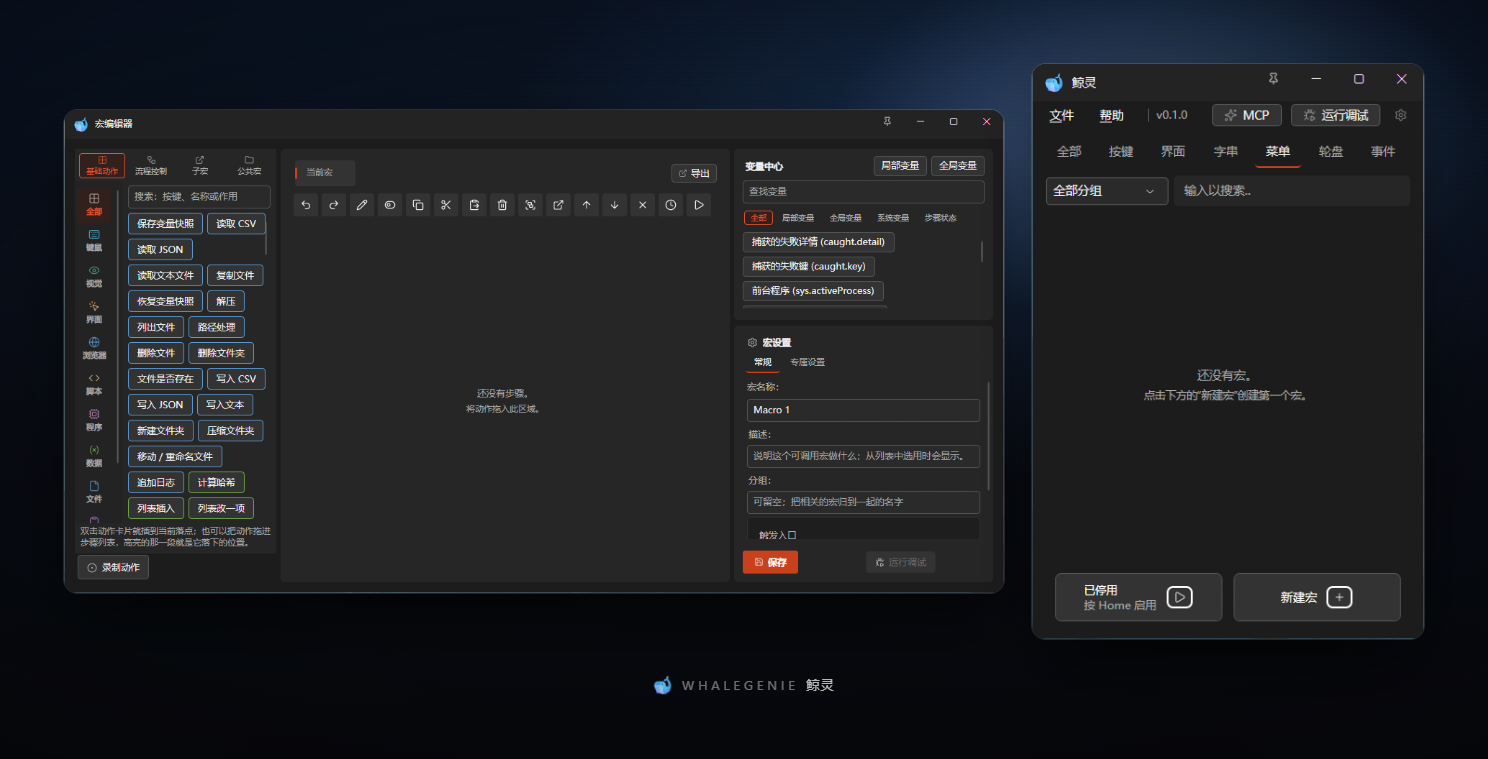
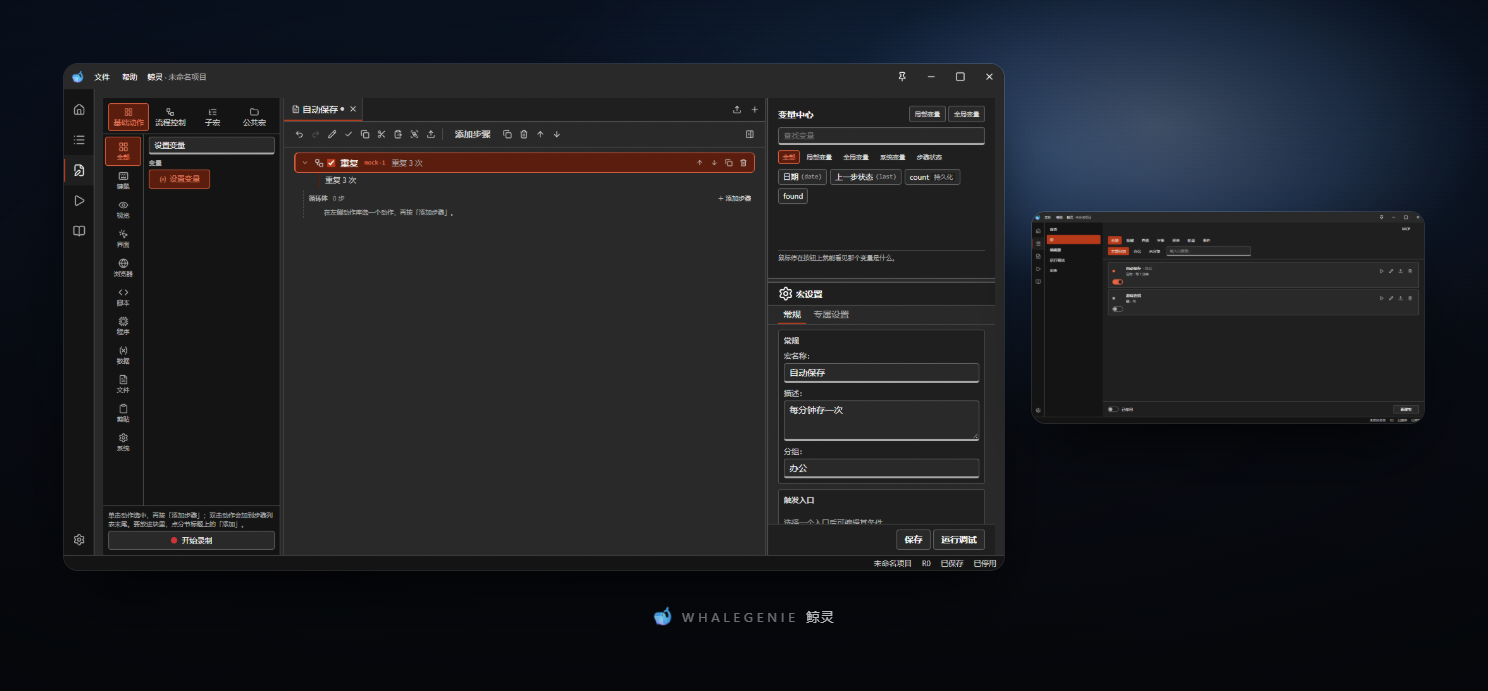
C3：编辑器文档与截图随迁移收口
同步网页编辑器的视觉契约、接口章节、手动验收项与路线图描述，更新界面总览、宏编辑器、动作编辑器与取值窗口截图；规模台账登记拆分后的文件行数。

diff --git a/docs/manual/10-editing.md b/docs/manual/10-editing.md
@@ -4,56 +4,125 @@
 
 ## 打开编辑器
 
-在「宏」页新建宏、双击宏卡片或点编辑按钮，会切到网页编辑器；原生菜单里的「编辑」也打开同一页面。公共宏库在左侧「宏库」页管理，不再从编辑器里的原生管理窗口进入。
+在「宏」页新建宏、双击宏卡片或点编辑按钮，会切到网页编辑器；标题栏「文件」菜单里的「编辑」和
+原生菜单的编辑入口也打开同一页面。公共宏库在左侧「宏库」页管理；编辑器动作库的「公共宏」页会把
+选中的公共宏复制成当前文档的子宏并留下一个调用步骤。
 
 ## 页面结构
 
-编辑器沿用 VS Code 式外壳：左侧活动栏与页面列表，右侧是文档区。顶部页签列出当前打开的父宏与子宏文档，灰点表示未保存；页签旁可关闭文档，关闭有未保存修改的文档会先询问。打开多个文档时切换页签保留各自的 C# 会话、撤销历史和脏状态。
+编辑器是类 VS Code 的工作区：顶部是标题栏；左侧活动栏常驻，编辑器路由的侧栏换成 **动作库**；
+中间是文档页签、工具条与步骤列表；右侧是 **变量中心与宏设置**；底部是状态条。
 
-标题栏的「文件」菜单负责打开、保存、另存为、导入与全部关闭；「帮助」菜单放关于、版本和使用手册。
+文档页签列出当前打开的父宏与子宏。切页签会保留各自的 C# 会话、撤销历史与未保存状态；页签上的
+实心点表示未保存，警示图标表示宏还有保存前必须修正的问题。页签可关闭，关闭有未保存修改的文档会
+先问「保存后再关闭」：确认保存成功才关闭，保存失败会保留页签并说明原因。末尾的「+」新建一个空白宏，
+右端的导出按钮把当前文档写成一个独立包。
+
+右侧栏上下两块同时在：上方是**变量中心**，列出当前宏能读到的变量，可按局部、全局、系统、
+步骤状态过滤，也可以打开局部/全局变量对话框；下方是**宏设置**，再分「常规」（名称、描述、分组、
+触发入口）与「专属设置」（输入限制、启停键、形参与返回值），保存与运行调试在它的底部。
+
+工具条在文档页签下方：撤销、重做、编辑步骤、添加步骤、复制、删除、上移、下移，以及右侧栏的
+收起/展开按钮。双击步骤行、点工具条的铅笔或按 F2 打开**动作编辑器**，步骤参数、条件、行表和
+备注/超时/重试/失败处理都在那里；窗口较窄时右侧栏默认收起，工具条上的按钮可随时展开。
+
+## 动作库
+
+动作库在工作区第一列，按来源分四档：
+
+- **基础动作**：左边一列分类栏（全部、键鼠、视觉、界面、浏览器、脚本、程序、数据、文件、剪贴、系统），
+  右边是这一分类的动作卡片；卡片按小分组加标题。
+- **流程控制**：重复、条件、多分支、尝试、跳转、等待等控制步骤，同样按小分组排列。
+- **子宏**：当前宏自己的子宏；单击打开为独立文档页签。
+
+搜索框按动作名、动作键、分类和说明过滤；搜索时不看当前来源，基础动作与流程控制合在一起找。
+**单击动作卡片只是选中**；**双击卡片**、按工具条的「添加步骤」，或把卡片拖到步骤列表接缝，
+先打开动作编辑器；确认后才把步骤加入列表。取消不改动列表。
+每个步骤列表上方还有「添加」按钮，把当前选中的动作放进那个分节；多分支的「添加分支」会加一支新的
+分支。动作库底部是「录制动作」：开始后捕获键鼠与手柄输入，再按一次停止并把结果写成步骤。
 
 ## 步骤
 
-「步骤」区上方有动作搜索、动作选择和「添加步骤」：
+一步一行。行首的折叠钮只出现在块上；勾选框启用或停用该步骤（停用的行变淡并写「已停用」）；名称旁
+的徽标分别是步骤 id、输入去向（前台/后台/驱动）和问题标记。行尾有上移、下移、复制、删除，选中行时
+出现；选中后行下方展开完整摘要、备注与步骤设置摘要。单击选中，Ctrl/Shift 多选；右键菜单可以
+编辑、启停、复制/剪切/粘贴、分组、提取为新宏、上下移与删除，行也可以拖到另一行前后换位。快捷键
+与菜单一致：Ctrl+C/X/V/G/E、Del、F2、Ctrl+↑/↓、Ctrl+A 与 Esc。
 
-- 搜索按动作名、动作键与分类过滤；选中一项后「添加步骤」放在根列表末尾。
-- 选中接受子步骤的块时，可出现「添加到选中步骤内」，把新步骤放进块内。
-- 每一步行首的勾选框启用/停用该步骤；行尾可上移、下移、复制、删除。
-- 选中步骤后，右侧检查器显示动作参数。文本、数字、多行和条件字段旁有「插入取值」：下拉可快速插入变量，**构建取值**会打开可搜索变量与内置函数的对话框，拼好后写回字段。
-- 键位字段可点「设置组合键」后直接按键捕获；图片字段可点「浏览」调用系统文件选择器；颜色字段可调用原生取色器。
-- 记录类字段（如返回值行表）可加行并逐格编辑；块步骤的「添加步骤」和「添加到选中步骤内」共同维护嵌套树。
-- 步骤检查器还可改备注、超时、重试次数、重试间隔和失败处理（停止、继续、下一轮循环、询问）。
+块（重复、条件、多分支、尝试等）显示为一层卡片，下面的分节是它的步骤列表，缩进并带虚线。分节标题
+右侧的「添加步骤」把动作库当前选中的动作放进该分节；多分支的「分支」分节用「添加分支」加一支，
+「其他情况」是普通步骤列表。
 
-## 条件
+步骤有问题时，列表上方会出现问题摘要；鼠标停在警示图标上可看具体原因。
 
-条件参数按行编辑：左侧值、比较方式、右侧值，行尾删除；行下方可加行或加组。组有自己的一组行和「全部成立 / 任一成立 / 全部不成立」连接方式，组可以嵌套；删除组会连同其子行一起移除。嵌套条件下仍可直接输入变量名和表达式，保存时由 C# 模型写成引擎读取的条件树。
+## 步骤参数
 
-## 宏设置与触发
+动作编辑器先编辑一个未入树的草稿步骤：标题栏显示“添加动作”或“编辑动作”，下方按基础设置、
+执行与容错、高级设置、其它设置分页；确认按钮是「添加步骤/保存步骤」，取消不改列表。
 
-名称、分组、说明直接写在文档区顶部。宏设置区可改输入限制（跟随程序设置或指定每秒事件数）和启用/停用键。
+双击步骤行打开动作编辑器后显示：
 
-触发入口列表支持按键、定时、颜色、文件、程序、字串、空闲、窗口和窗口内接口；每种入口有自己的字段，可启用/停用或删除。菜单入口仍是项目级运行菜单管理的原生面，不在网页编辑器里添加。
+- 参数：文本、数字、多行文字、选项、布尔、颜色、图片和键位字段。文本、名字、颜色、多行与条件
+  单元格、条件格与行表单元格显示成框内的只读文字，框的右缘贴着一枚「取值」按钮；数字可以直接输入，
+  按钮同样在框内。
+  点「取值」打开取值窗口：上方是结构带，下面是运算符、变量和函数。点材料会插到光标处，点块上的叉
+  可以摘除，点运算符可以更换，函数参数可以继续套函数；确认后把整条值写回这一格。
+- 条件：按行编辑左侧值、比较方式、右侧值；可加行、加组，组有自己的连接方式（全部成立/任一成立/
+  全部不成立），组可以嵌套。条件也可以直接写成表达式。
+- 行表：例如返回值表，按列加行、逐格编辑、删行。
+- 记录形参：在「宏设置 → 专属设置」里声明记录字段，字段名和类型会出现在调用方的行表里。
+- 步骤设置：备注、超时、重试次数、重试间隔与失败处理（停止、继续、下一轮循环、询问）。
 
-## 形参与返回值
+键位字段点「设置组合键」后直接按要用的键；图片字段点「浏览」调用系统文件选择器；颜色字段可用取色器
+或直接写颜色值。
 
-宏可声明调用时需要的形参和可返回的结果：名字、类型、必填、默认值与说明；选择记录类型时还可声明字段名和字段类型。形参与返回值都可用上移/下移调整顺序。声明不合法时保存会被 C# 校验拦下。
+## 变量中心
 
-## 变量
+右侧「变量中心」用五档过滤：全部、局部变量、全局变量、系统变量、步骤状态。变量片显示方便读的名字，
+括号里是实际名字；持久化的全局变量另有徽标。鼠标停在变量片上，下方显示它的来源与说明。
 
-局部变量墙列出当前宏声明的局部变量与步骤写出的局部变量；声明项可改名、改类型、改初始值和说明。全局变量墙显示整个工程的全局变量：新增、改名、改类型/默认值/说明/持久化只写当前文档的草稿，点「保存」才提交进工程；关闭文档会丢弃未保存的全局改动。
+顶部的「局部变量」和「全局变量」打开两个对话框：
 
-## 子宏
+- **局部变量**：声明这个宏自己每次运行开始时用的值；步骤写出来的名字也能在这里改名。改动随文档保存
+  一起提交。
+- **全局变量**：项目里所有宏共享的变量，可新建、改名、改类型/默认值/说明与持久化。改动先写进当前
+  文档的草稿，保存文档后提交进工程。
 
-父宏拥有的子宏显示在「子宏」区；点名字会打开独立文档页签。子宏页保存时写回父宏模型，父宏再保存时一起落进工程。子宏没有自己的触发入口。
+## 宏设置
 
-## 公共宏库
+「常规」页编辑宏名称、说明与分组。名称不能为空，也不能与项目里别的宏重名；有问题时字段下方直接说明。
+触发入口列表支持按键、定时、颜色、文件、程序、字串、空闲、窗口和窗口内接口；选中一条入口后编辑它的
+字段，可启用/停用或删除。多分支、条件等动作不使用触发入口。
 
-左侧「宏库」页列出本机公共宏的名字、版本与说明。可以选择一个工程宏加入宏库，或用当前工程宏覆盖已有条目；覆盖会按内容变化递增版本。删除只影响宏库，已复制进工程的副本照常运行。
+「专属设置」页编辑：
+
+- **输入限制**：跟随程序的默认速率，或给这个宏指定每秒事件数；
+- **启停键**：设置一个只属于这个宏的键；留空表示不设置；
+- **形参与返回值**：名字、类型、必填、默认值与说明；记录类型还可以声明字段。声明不合法时保存会被
+  C# 校验拦下，并在页面上说明原因。
+
+子宏文档没有自己的触发入口和输入限制，这两块不会显示。
 
 ## 保存、关闭与快捷键
 
-「保存」和 Ctrl+S 保存当前文档；有未保存内容时页签带点，关闭会先询问。Ctrl+W 关闭当前文档；非输入框聚焦时 Ctrl+Z / Ctrl+Shift+Z / Ctrl+Y 撤销与重做。关闭编辑器页签不会删除宏，宏列表里的删除仍走它的确认流程。
+- 「保存」或 Ctrl+S 保存当前文档；保存按钮在右侧宏设置的底部，文档有未保存修改且能保存时可用。
+- Ctrl+W 关闭当前页签；有未保存修改时先问保存。
+- 非输入框聚焦时，Ctrl+Z / Ctrl+Shift+Z / Ctrl+Y 撤销与重做。
+- 「运行调试」在右侧宏设置底部，会先保存当前文档，再进入运行与调试页；子宏与空宏不能直接运行。
+- 关闭编辑器页签不会删除宏；宏列表里的删除仍走它自己的确认流程。
 
 ## 桌面交互
 
-编辑、步骤树、条件、变量、公共宏库都已迁入网页。屏幕取色、图片选择、窗口拾取和运行调试中的部分桌面交互仍由原生窗口承担；它们只做单次桌面操作，不保存第二套编辑模型。
+编辑器的步骤树、条件、变量、宏设置、触发入口与动作库都已迁入网页。屏幕取色、图片选择、窗口拾取
+和运行调试里的部分桌面交互仍由原生窗口承担；它们只做单次桌面操作，不保存第二套编辑模型。
+
+## 子宏
+
+父宏拥有的子宏显示在动作库的「子宏」页；单击打开独立文档页签。子宏页保存时写回父宏模型，父宏再
+保存时一起落进工程。子宏没有自己的触发入口与输入限制。
+
+## 公共宏库
+
+左侧「宏库」页列出本机公共宏的名字、版本与说明。可以选择一个工程宏加入宏库，或用当前工程宏覆盖
+已有条目；覆盖会按内容变化递增版本。删除只影响宏库，已复制进工程的副本照常运行。编辑器里不提供
+导入/导出当前文档的按钮；这些操作在「宏」页和「文件」菜单里完成。

diff --git a/docs/dev/validation.md b/docs/dev/validation.md
@@ -128,16 +128,22 @@ src/WhaleGenie/bin/x64/Debug/net10.0-windows10.0.19041/WhaleGenie.exe
 - **驱动级输入**：安装 usbip-win2，分别验证启动时加载与否、键鼠动作和手柄；退出后确认虚拟设备已移除。
 - **识别与录制**：验证 YOLO 检测、等待与点击落点；验证录制热键、动作翻译和停止流程。
 - **脚本与依赖**：验证批处理、PowerShell、Python、C#、AutoHotkey、包安装及断网失败路径。
-- **编辑器交互**：验证表达式拖放、动作落点、取消与保存、公共宏版本复制及重启后的公共宏库。
-  宏设置的两页都要在 360 像素宽的右栏里走一遍：`常规` 与 `专属设置` 来回切、滚动只发生在当前页、
-  标题与按钮不动；专属页填一个每宏限速（含 0）并跑一次，确认打字与点击按这个速率发出；录一个
-  启用/停用键，回到主界面按它两次，确认宏先停后开、这个键本身没有打进前台窗口，再在没有保存的
-  情况下关掉编辑器，确认恢复提示还在。
-- **取值窗口**：在条件或表达式格打开取值窗口，格里的裸名字不应被判成「读不通」，「确认」可用；小输入框
-  里 `1e5`、`1,000`、`+5` 被拒，`3.5`、`-5` 可插入；点过结构带后直接敲字母，字符应落进小输入框；在小
-  输入框里按 Ctrl+Z 只撤输入框里的字，公式不动；把一块拖到会让可读式子读不通的位置，松手不应执行，落点
-  线也不画；把整条公式清空后「确认」应把这一格清空；输入一个没有声明的名字，块上应描红边；用中文输入法
-  在小输入框里打一段文字，确认候选窗与回车不冲突。
+- **宏编辑器（网页）**：从「宏」页新建与编辑进入同一页面；确认动作库位于工作区第一列（基础动作/流程控制/子宏/公共宏）、
+  中间文档页签与步骤树、右侧变量中心 + 宏设置上下双面板都在；单击动作选中、双击/「添加步骤」/拖入接缝先打开动作编辑器，确认后才加入；
+  块的分节能用「添加」放子步骤，多分支能用「添加分支」加一支；Ctrl/Shift 多选、右键菜单、
+  Ctrl+C/X/V/G/E、拖放换位与「提取为新宏」可用；公共宏卡片会复制子宏并留下调用；双击步骤/点铅笔打开动作编辑器，在
+  里面改参数、条件、行表、备注/超时/失败处理；变量中心的五档过滤、局部/全局变量对话框能新建与改名；
+  宏设置两页（常规/专属）能改名称、触发入口、输入限制、启停键与形参/返回值；键位捕获、图片浏览、
+  动作编辑器的四页页签、返回值表、必填校验与取消/确认可用；框内「取值」按钮与 Token 取值窗口可用；页签右端导出把当前文档写成独立包；录制开始/停止能写回步骤；
+  脏页签关闭先问保存，保存失败保留页签；Ctrl+S/Ctrl+W 与「运行调试」可用；切语言后动作库与
+  分节标题跟着变；深/浅主题、100% 与 150% DPI、1100×720 与 720×480 下不裁字、焦点环可见，
+  窄窗收起右侧栏后内容区可横向滚动。
+- **Token 取值窗口**：从文本/名字/颜色/多行/条件格/行表值格分别点框内「取值」，确认窗口进入
+  对应模式；结构带里插入/摘除/换运算符/括号/列表/函数/变量/常量；拖动一块换位置，撤销/重做/清空；
+  点「确定」把形状写回字段，点「取消」不改原值；空值确认应清空该格；必填空洞或读不通时「确定」不可用；
+  条件格左右值与行表单元格的取值钮也要分别打开并写回对应格子；
+  变量片显示名与实际名要区分；数字框可直接输入，数字框里写公式后应变成只读公式显示；
+  旧宏里带 `$` 的文字仍能读入，但新建值不再要求 `$` 语法。
 - **变量名字与格式 32**：打开一个 31 及更早的 `.wgmacro`，确认被拒绝并给出可读的版本提示；新建一个宏，
   加全局变量、局部变量和一个「设置变量」步骤，保存后重新打开，确认引用仍读到同一个值；把全局变量改名，
   确认同名局部变量没有被跟着改；从取值窗口选一个名字写进条件行，保存再打开，确认仍按名字读取，且文件里没有 `$` 前缀。

diff --git a/docs/roadmap.md b/docs/roadmap.md
@@ -32,7 +32,7 @@
   sessionPatch/sessionStep/sessionSave 等命令，网页门禁页渲染快照并保存；真实宏完成打开→改字段→
   保存→重开，177 项动作目录全部能建立表单，100 次快照/改字段往返在测试阈值内。原生编辑器已在 C2 删除。
 - **阶段 C1 编辑器完整迁入（已完成）**：文档与子宏页签、步骤树、动作库/搜索与表单、嵌套条件、
-  宏设置/可调用形参与返回值（含记录字段）、触发入口、局部/全局变量草稿、取值构建器、录制与键位捕获；
+  宏设置/可调用形参与返回值（含记录字段）、触发入口、局部/全局变量草稿、Token 取值窗口、录制与键位捕获；
   屏幕拾取器等桌面交互保留原生。宏列表新建/编辑、原生菜单“编辑”和公共宏库都已接网页。
 - **阶段 C2 编辑器转正（已完成）**：宏列表、菜单与公共宏库都已接网页；网页桥不再注册
   editor.newMacro/editor.open。MacroEditorWindow、ActionEditorWindow、ValuePickerWindow 及文档/设置/
@@ -68,6 +68,20 @@
   仍不新增 CLI 入口，除非出现 CI 批量验包、脚本生成宏等真实调用方。
 - **MCP 工具发现与审计登记**：工具类型和审计调用仍有手工登记点。先通过故障注入确认漏登记能否被
   现有测试发现，再决定是否采用自动发现或统一拦截。
+
+### 宏编辑器余量
+
+网页宏编辑器已经还原了原生工作区的三栏、分节与动作库，但下面几项仍是刻意留下的缺口；升级为阶段前
+先说明真实调用场景和验收方法。
+
+- **任意位置拖放**：现在动作库只能追加到根列表末尾或某个分节末尾，桥没有“插到某一步前后”的命令。
+  要恢复拖放，先给 `editor.sessionStep` 增加落点（`beforeId` 或下标），再补插入带、拒绝提示与用例。
+- **公共宏 dock**：原生编辑器能把公共宏复制成项目内的子宏再插入调用；网页当前只保留基础动作、流程
+  控制与子宏三档。需要先有“把公共宏 staging 成子宏”的桥命令，不能只按名字插一个会找不到目标的调用。
+- **子宏新建与复制**：网页能打开已有子宏，但不能从动作库新建子宏或复制项目宏；先定唯一命名与
+  “复制后是否立即可调用”的规则，再加命令与页面入口。
+- **多选步骤**：原生树支持多选后统一移动、复制、删除；网页一次只选一步，桥也只有单步命令。先评估
+  多选的真实使用频率，再决定是否扩大命令面。
 
 ### 用词
 

diff --git a/docs/manual/05-values-and-placement.md b/docs/manual/05-values-and-placement.md
@@ -4,6 +4,8 @@
 
 ## 取值窗口
 
+![取值窗口](../images/value-picker.png)
+
 **一张格子怎么读由字段决定，共有四种，入口只有取值窗口。** 字段本身只读，只负责把值显示成看得懂的
 一行——名字说成「名字」，一段话里夹着变量时显示成独立的一枚名字片。窗口按字段的读法分四模式：
 **文字**（说明、信）是一整段文本框；**文本**（路径、程序参数）是文字与名字组成的序列，直接打字，
